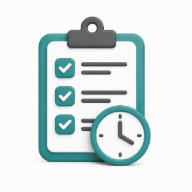
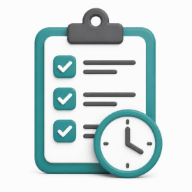
Add files via upload

diff --git a/index.html b/index.html
@@ -10,6 +10,7 @@
 <title>タスク</title>
 <link rel="icon" type="image/png" sizes="192x192" href="icon-192.png">
 <link rel="icon" type="image/png" sizes="512x512" href="icon-512.png">
+<link rel="manifest" href="manifest.json">
 <style>
 /* ============================================================
    デザイントークン
